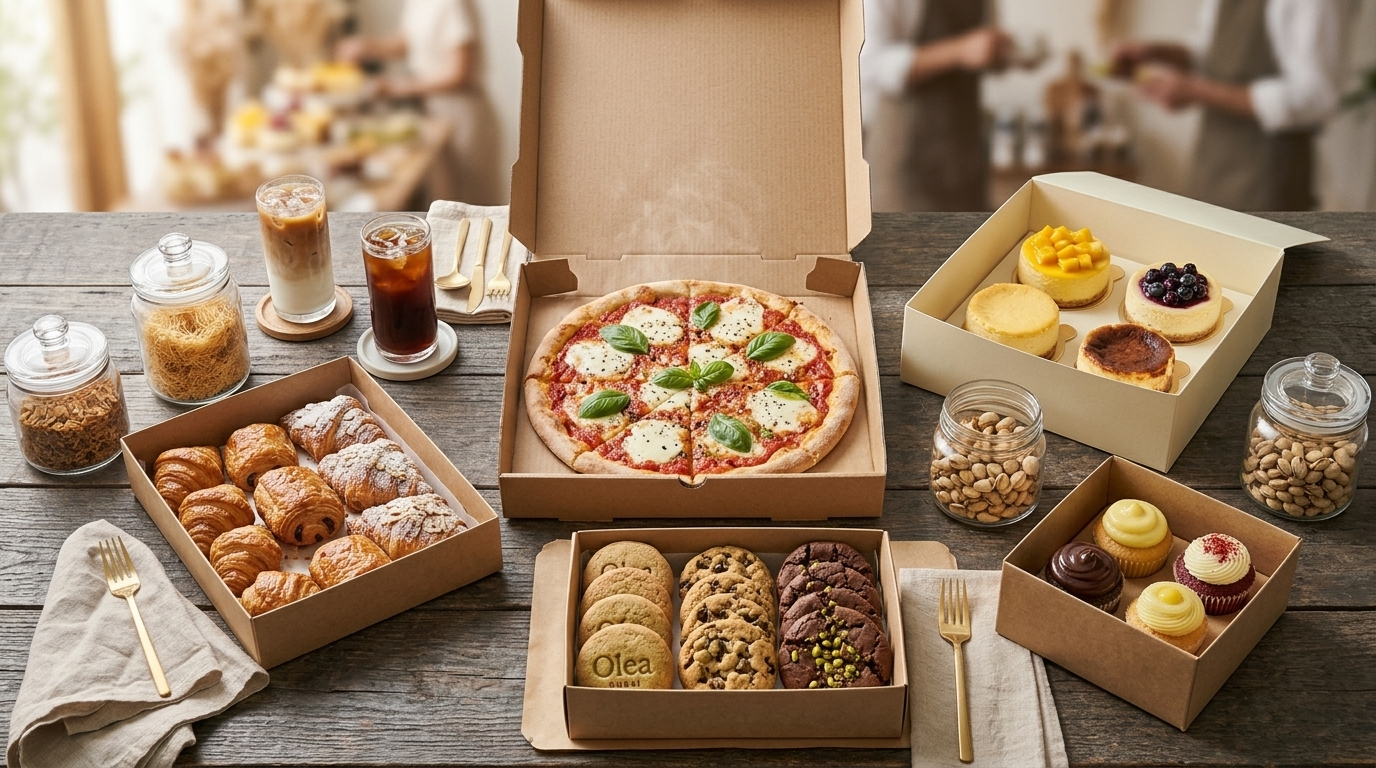
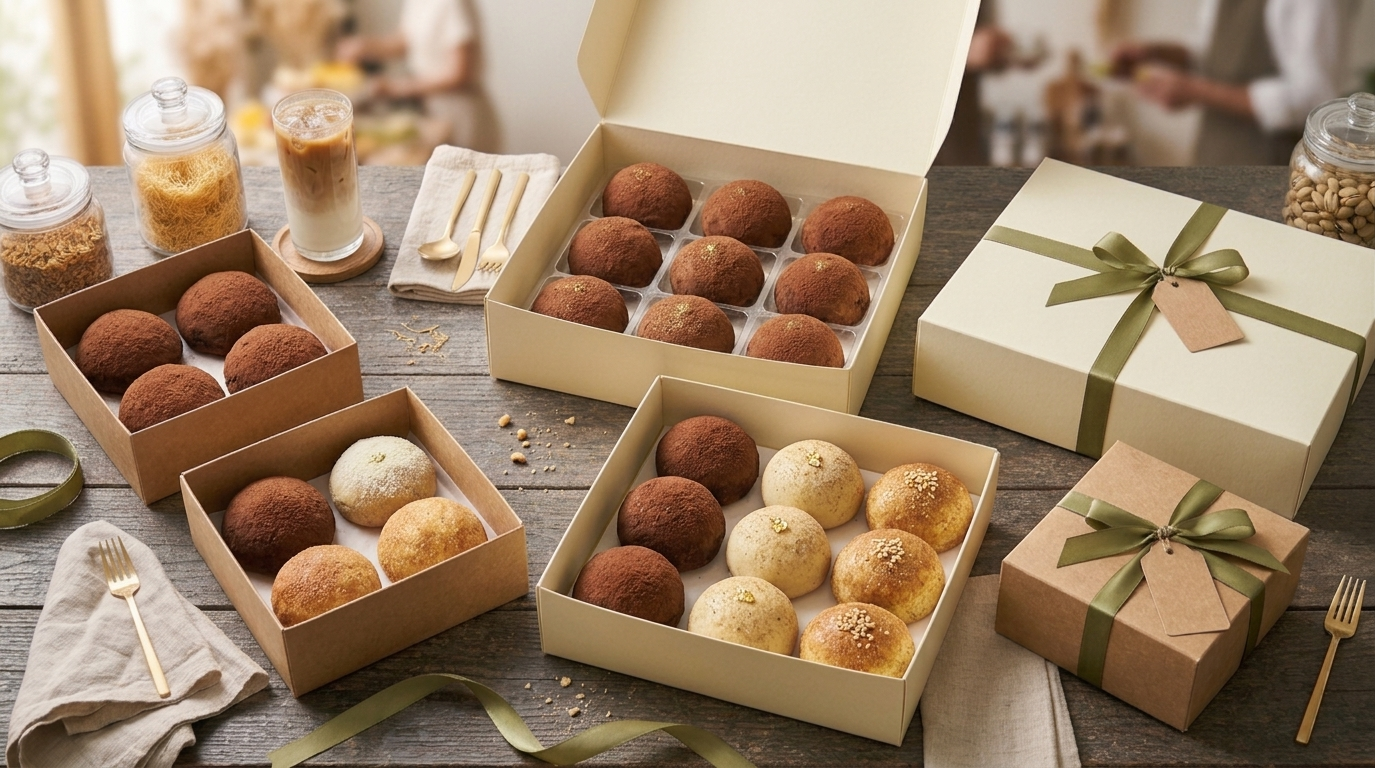
feat: import updated bg images, add title wrapper and style bg images

diff --git a/src/index.html b/src/index.html
@@ -19,11 +19,14 @@
 
     <main class="welcome">
       <section>
-        <div class="title hero" id="welcome-title-1">
-          <div class="title__container">
-            <h2 class="title__heading">MORE THAN COFFEE. A SANCTUARY.</h2>
+        <div class="title__wrapper" id="welcome-title-1">
+          <div class="title hero">
+            <div class="title__container">
+              <h2 class="title__heading">MORE THAN COFFEE. A SANCTUARY.</h2>
+            </div>
           </div>
         </div>
+
         <div class="content">
           <div class="content__container">
             <h3 class="content__heading">OLEA ISN'T JUST A CAFÉ. IT'S A SLOW MORNING.</h3>
@@ -36,12 +39,15 @@
       </section>
 
       <section>
-        <div class="title" id="welcome-title-2">
-          <div class="title__container">
-            <h2 class="title__heading">PASTA. SPRITZ. SWEET FINISH.</h2>
-            <p class="title__text">Dinner, the Olea way. From 5pm at Maginhawa. Walk-ins welcome.</p>
+        <div class="title__wrapper" id="welcome-title-2">
+          <div class="title">
+            <div class="title__container">
+              <h2 class="title__heading">PASTA. SPRITZ. SWEET FINISH.</h2>
+              <p class="title__text">Dinner, the Olea way. From 5pm at Maginhawa. Walk-ins welcome.</p>
+            </div>
           </div>
         </div>
+
         <div class="content">
           <div class="content__container">
             <h3 class="content__heading">PASTA NIGHT HAS ARRIVED.</h3>
@@ -62,12 +68,15 @@
       </section>
 
       <section>
-        <div class="title" id="welcome-title-3">
-          <div class="title__container">
-            <h2 class="title__heading">NOT JUST A COOKIE. DUBAI CHEWY.</h2>
-            <p class="title__text">Baked in small batches, every single day.</p>
+        <div class="title__wrapper" id="welcome-title-3">
+          <div class="title">
+            <div class="title__container">
+              <h2 class="title__heading">NOT JUST A COOKIE. DUBAI CHEWY.</h2>
+              <p class="title__text">Baked in small batches, every single day.</p>
+            </div>
           </div>
         </div>
+
         <div class="content">
           <div class="content__container">
             <h3 class="content__heading">THE COOKIE EVERYONE QUEUES FOR.</h3>
@@ -89,12 +98,15 @@
       </section>
 
       <section>
-        <div class="title" id="welcome-title-4">
-          <div class="title__container">
-            <h2 class="title__heading">BUTTER. PISTACHIO. PATIENCE.</h2>
-            <p class="title__text">No shortcuts. Just the Olea way.</p>
+        <div class="title__wrapper" id="welcome-title-4">
+          <div class="title">
+            <div class="title__container">
+              <h2 class="title__heading">BUTTER. PISTACHIO. PATIENCE.</h2>
+              <p class="title__text">No shortcuts. Just the Olea way.</p>
+            </div>
           </div>
         </div>
+
         <div class="content">
           <div class="content__container">
             <h3 class="content__heading">WONDERING WHAT MAKES OUR COOKIES SO THICK AND CHEWY?</h3>
@@ -104,11 +116,14 @@
       </section>
 
       <section>
-        <div class="title" id="welcome-title-5">
-          <div class="title__container">
-            <h2 class="title__heading">A STORY IN EVERY CUP.</h2>
+        <div class="title__wrapper" id="welcome-title-5">
+          <div class="title">
+            <div class="title__container">
+              <h2 class="title__heading">A STORY IN EVERY CUP.</h2>
+            </div>
           </div>
         </div>
+
         <div class="content">
           <div class="content__container">
             <h3 class="content__heading">INSPIRED BY OLD CAFÉS. MADE FOR TODAY.</h3>
@@ -122,9 +137,11 @@
 
     <main class="menu">
       <section>
-        <div class="title hero" id="menu-title-1">
-          <div class="title__container">
-            <h2 class="title__heading">MENU</h2>
+        <div class="title__wrapper" id="menu-title-1">
+          <div class="title hero">
+            <div class="title__container">
+              <h2 class="title__heading">MENU</h2>
+            </div>
           </div>
         </div>
 
@@ -614,13 +631,16 @@
 
     <main class="catering">
       <section>
-        <div class="title hero" id="catering-title-7">
-          <div class="title__container">
-            <h2 class="title__heading">OLEA CATERING</h2>
-            <p class="title__text">Café classics, created for all your special occasions.</p>
-            <button class="primary-btn">BROCHURE</button>
+        <div class="title__wrapper" id="catering-title-1">
+          <div class="title hero">
+            <div class="title__container">
+              <h2 class="title__heading">OLEA CATERING</h2>
+              <p class="title__text">Café classics, created for all your special occasions.</p>
+              <button class="primary-btn">BROCHURE</button>
+            </div>
           </div>
         </div>
+
         <div class="content">
           <div class="content__container">
             <h3 class="content__heading">FRESH BAKES AND COFFEE FOR CORPORATE AND PRIVATE EVENTS.</h3>
@@ -632,35 +652,22 @@
       </section>
 
       <section>
-        <div class="title" id="catering-title-8">
-          <div class="title__container">
-            <h2 class="title__heading">OUR FAMOUS, DUBAI CHEWY.</h2>
-            <p class="title__text">Boxed, ribboned and ready for your table.</p>
+        <div class="title__wrapper" id="catering-title-2">
+          <div class="title">
+            <div class="title__container">
+              <h2 class="title__heading">OUR FAMOUS, DUBAI CHEWY.</h2>
+              <p class="title__text">Boxed, ribboned and ready for your table.</p>
+            </div>
           </div>
         </div>
+
         <div class="content">
           <div class="content__container">
             <h3 class="content__heading">DUBAI COOKIE BOXES</h3>
             <p class="content__text">Please don't call it "just a cookie", because ours is the Dubai Chewy. It's one of the thickest, chewiest cookies you've ever tasted, baked fresh each morning with in-house pistachio cream, toasted kataifi and real dark chocolate, with no artificial flavours or preservatives. Our long-rested dough gives it that deep, caramel flavour and its signature chew.</p>
             <p class="content__text">If you've had one in our café, you know what we mean. Want them at your event? Just ask!</p>
-            <div class="content__columns">
-              <div class="content__column">
-                <!-- <img class="content__column-img" src="" alt=""> -->
-                <h4 class="content__sub-heading">MINI BOXES OF FOUR.</h4>
-                <p class="content__text">Four mini Dubai cookies in assorted flavours. Ideal for gifts, meetings and small gatherings.</p>
-              </div>
-              <div class="content__column">
-                <!-- <img class="content__column-img" src="" alt=""> -->
-                <h4 class="content__sub-heading">PARTY BOXES OF TWELVE.</h4>
-                <p class="content__text">Twelve cookies, mixed across Dubai, Dubai Bianco, Dubai Caramello and Dubai Nero. Made for sharing around the table.</p>
-              </div>
-            </div>
             <button class="primary-btn">BROCHURE</button>
-          </div>
-        </div>
-        <div class="content">
-          <div class="content__container">
-            <h3 class="content__heading text-center">TO ORDER YOUR CAFÉ FEAST PLEASE EMAIL US AT CATERING@CAFEOLEA.PH</h3>
+            <h3 class="content__heading text-center mt-16">TO ORDER YOUR CAFÉ FEAST PLEASE EMAIL US AT CATERING@CAFEOLEA.PH</h3>
             <p class="content__text text-center">Please note we can provide disposable plates and cutlery upon request only, at an extra charge.</p>
           </div>
         </div>

diff --git a/src/styles.css b/src/styles.css
@@ -59,9 +59,10 @@
 
 :root {
   --clr-300-orange-300: rgb(75, 55, 50);
-  --clr-300-orange-300-85: rgb(75, 55, 50, 0.85);
+  --clr-300-orange-300-85p: rgb(75, 55, 50, 0.85);
   --clr-500-orange-200: rgb(130, 110, 105);
   --clr-800-white: rgb(200, 200, 200);
+  --clr-black-20p: rgb(0, 0, 0, 0.25);
   --clr-white: rgb(255, 255, 255);
 
   --font-primary: Montserrat;
@@ -115,8 +116,15 @@
 
 
 
-.title {
+.title__wrapper {
   background-color: var(--clr-500-orange-200);
+  background-position: center;
+  background-repeat: no-repeat;
+  background-size: cover;
+}
+
+.title {
+  background-color: var(--clr-black-20p);
 }
 
 .welcome .title.hero {
@@ -140,7 +148,7 @@
   gap: 2.5rem;
 }
 
-.title.hero .title__container { 
+.hero .title__container { 
   padding-top: 16rem;
   padding-bottom: 12rem;
 }
@@ -163,12 +171,15 @@
 
 
 .content {
+  border-bottom: 1px solid var(--clr-300-orange-300);
+
   padding-top: 5rem;
   padding-bottom: 5rem;
 }
 
-.content:first-child { border-top: 1px solid var(--clr-300-orange-300); }
-.content:last-child { border-bottom: 1px solid var(--clr-300-orange-300); }
+.content:first-child { 
+  border-top: 1px solid var(--clr-300-orange-300); 
+}
 
 .content__container {
   display: flex;
@@ -244,11 +255,11 @@
   letter-spacing: 0.03rem;
 
   margin-top: 1rem;
-  padding: 1rem 2.4rem;
+  padding: 1.2rem 2.4rem;
 
   align-self: center;
 
-  &:hover { background-color: var(--clr-300-orange-300-85); }
+  &:hover { background-color: var(--clr-300-orange-300-85p); }
 }
 
 
@@ -278,6 +289,7 @@
 .h-85p              { height: 85%; }
 .w-100p             { width: 100%; }
 
+.mt-16              { margin-top: 4rem; }
 .pl-8               { padding-left: 2rem; }
 .pr-12              { padding-right: 3rem; }
 
